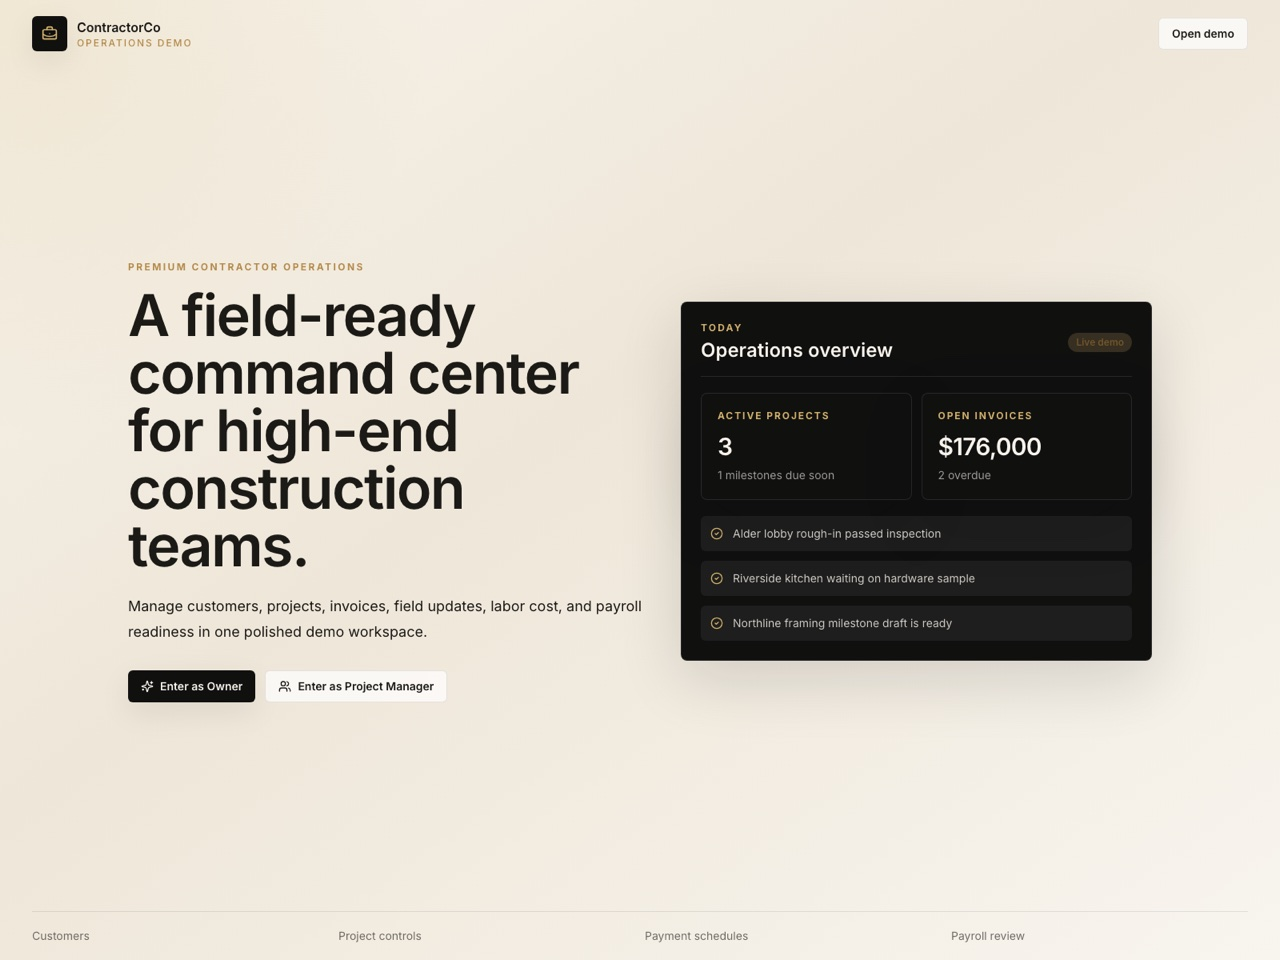
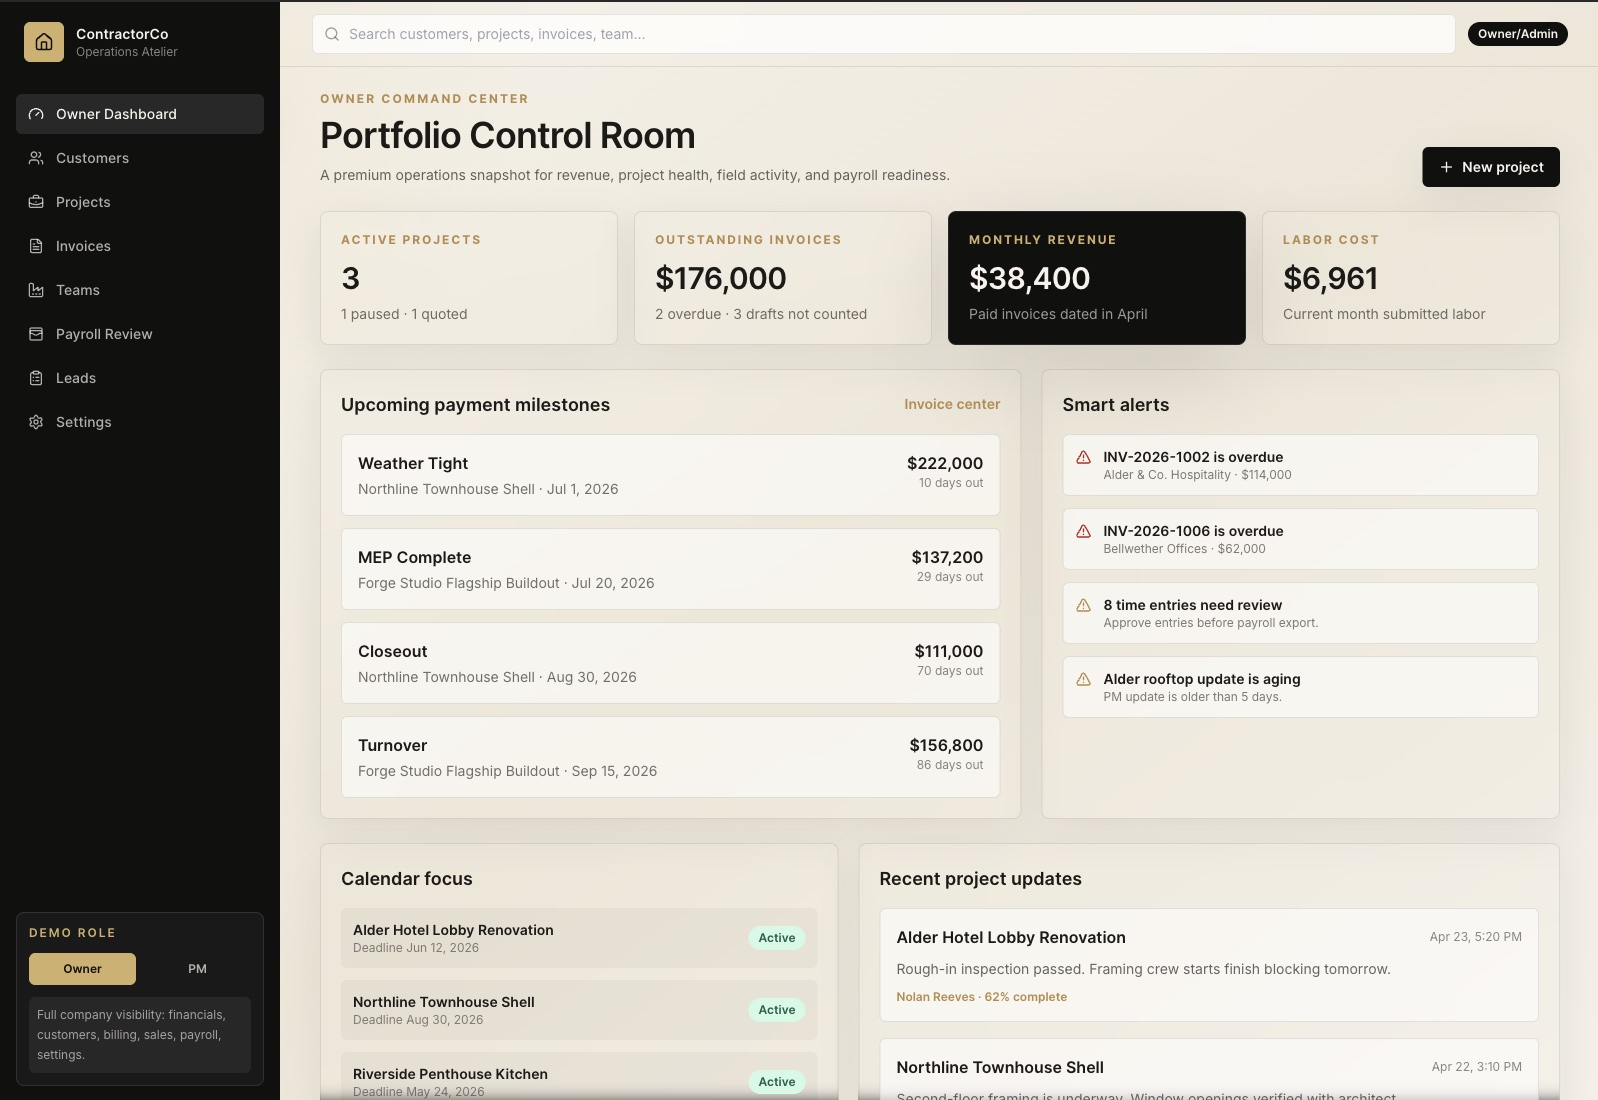
Portfolio: add Laundry Day app, update ContractorCo, expand hero slider
- Add "Laundry Day App" (app.laundryday.app) to the portfolio grid (V3 + dark).
- Re-encode the updated ContractorCo screenshot to an optimized JPEG.
- Expand the V3 hero mockup slider from 6 to 9 sites (adds Laundry Day app,
  PropertyOS, ContractorCo) so it shows more work before looping.

diff --git a/src/components/v3/HeroV3.jsx b/src/components/v3/HeroV3.jsx
@@ -14,7 +14,10 @@ const SITES = [
   { img: 'portfolio/birchwood.jpg', host: 'birchwoodny.com' },
   { img: 'portfolio/fleurfund.jpg', host: 'fleurfund.com' },
   { img: 'portfolio/laundryday.jpg', host: 'laundryday.nyc' },
+  { img: 'portfolio/laundrydayapp.jpg', host: 'app.laundryday.app' },
   { img: 'portfolio/nyapts.jpg', host: 'ny-apts.com' },
+  { img: 'portfolio/propertyos.jpg', host: 'propertyos.app' },
+  { img: 'portfolio/contractorco.jpg', host: 'contractorco.app' },
   { img: 'portfolio/safeconsulting.jpg', host: 'safeconsulting.shop' },
   { img: 'portfolio/rentovercharge.jpg', host: 'rentoverchargenyc.com' },
 ]

diff --git a/src/components/Portfolio.jsx b/src/components/Portfolio.jsx
@@ -6,6 +6,7 @@ const projects = [
   { title: 'Birchwood', category: 'Short-Term Rental Platform for Property Owners', color: 'from-violet-600 to-indigo-600', image: '/portfolio/birchwood.jpg', url: 'https://birchwoodny.com/' },
   { title: 'Fleur Fund', category: 'Real Estate Investment Platform for Investors', color: 'from-cyan-600 to-blue-600', image: '/portfolio/fleurfund.jpg', url: 'https://fleurfund.com/' },
   { title: 'Laundry Day', category: 'On-Demand Laundry Service Website', color: 'from-emerald-600 to-teal-600', image: '/portfolio/laundryday.jpg', url: 'https://laundryday.nyc/' },
+  { title: 'Laundry Day App', category: 'On-Demand Laundry Booking App', color: 'from-teal-600 to-cyan-600', image: '/portfolio/laundrydayapp.jpg', url: 'https://app.laundryday.app/' },
   { title: 'NY Apts', category: 'Property Management Website for NYC Rentals', color: 'from-amber-600 to-orange-600', image: '/portfolio/nyapts.jpg', url: 'https://ny-apts.com/' },
   { title: 'Rent Overcharge', category: 'Automated Platform for Tenant Rent Disputes', color: 'from-pink-600 to-rose-600', image: '/portfolio/rentovercharge.jpg', url: 'https://www.rentoverchargenyc.com/' },
   { title: 'Safe Consulting', category: 'Custom Merchandise & Swag Store', color: 'from-blue-600 to-accent', image: '/portfolio/safeconsulting.jpg', url: 'https://safeconsulting.shop' },

diff --git a/src/components/v3/PortfolioV3.jsx b/src/components/v3/PortfolioV3.jsx
@@ -5,6 +5,7 @@ const projects = [
   { title: 'Birchwood', category: 'Short-Term Rental Platform', image: '/portfolio/birchwood.jpg', url: 'https://birchwoodny.com/' },
   { title: 'Fleur Fund', category: 'Real Estate Investment Platform', image: '/portfolio/fleurfund.jpg', url: 'https://fleurfund.com/' },
   { title: 'Laundry Day', category: 'On-Demand Laundry Service', image: '/portfolio/laundryday.jpg', url: 'https://laundryday.nyc/' },
+  { title: 'Laundry Day App', category: 'On-Demand Laundry Booking App', image: '/portfolio/laundrydayapp.jpg', url: 'https://app.laundryday.app/' },
   { title: 'NY Apts', category: 'Property Management for NYC Rentals', image: '/portfolio/nyapts.jpg', url: 'https://ny-apts.com/' },
   { title: 'Rent Overcharge', category: 'Automated Tenant Dispute Platform', image: '/portfolio/rentovercharge.jpg', url: 'https://www.rentoverchargenyc.com/' },
   { title: 'Safe Consulting', category: 'Custom Merchandise & Swag Store', image: '/portfolio/safeconsulting.jpg', url: 'https://safeconsulting.shop' },